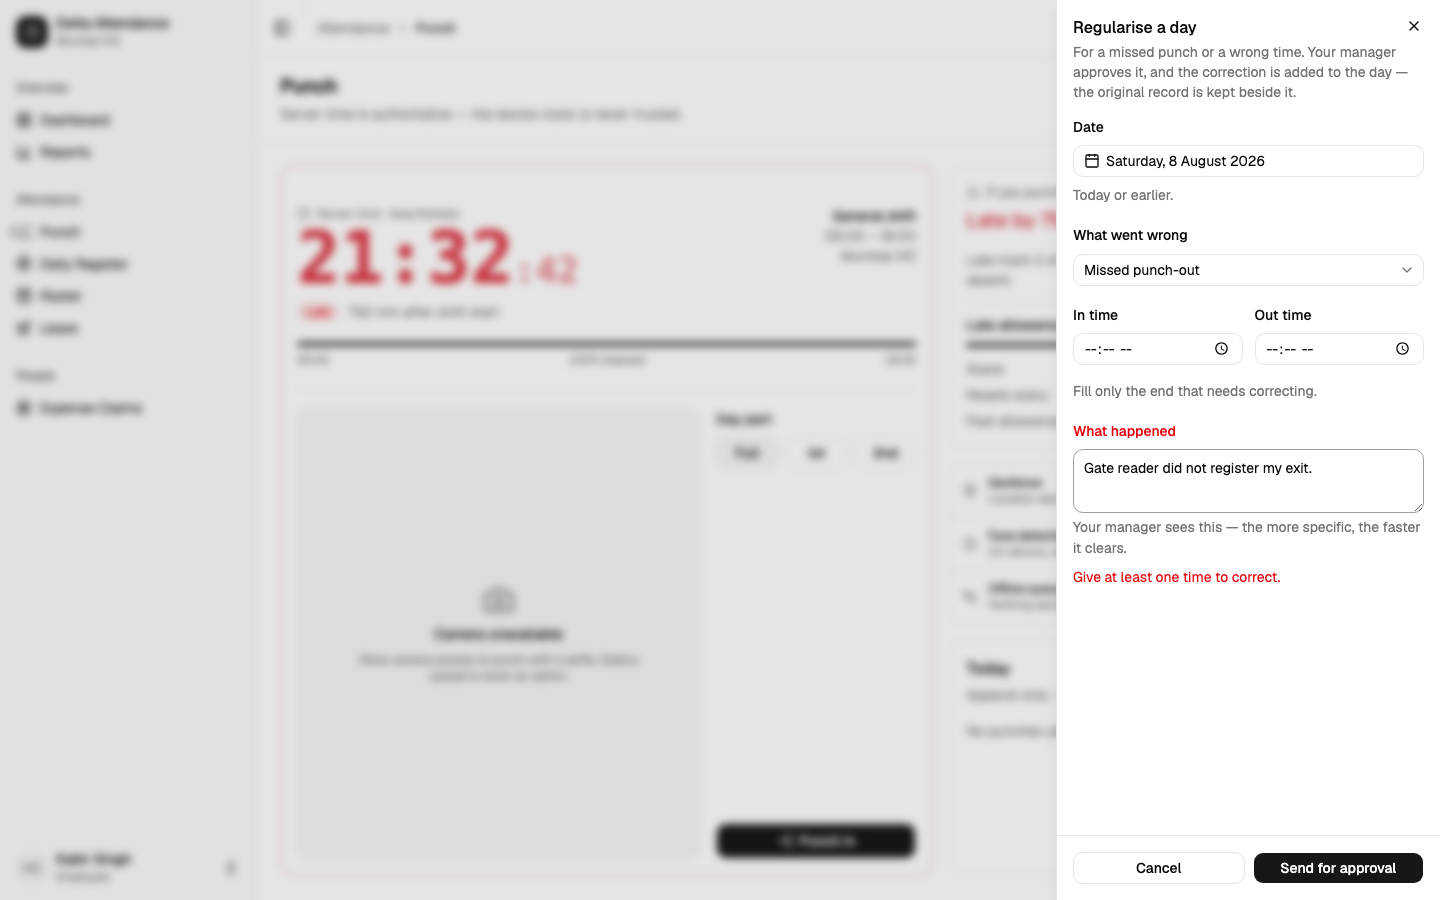
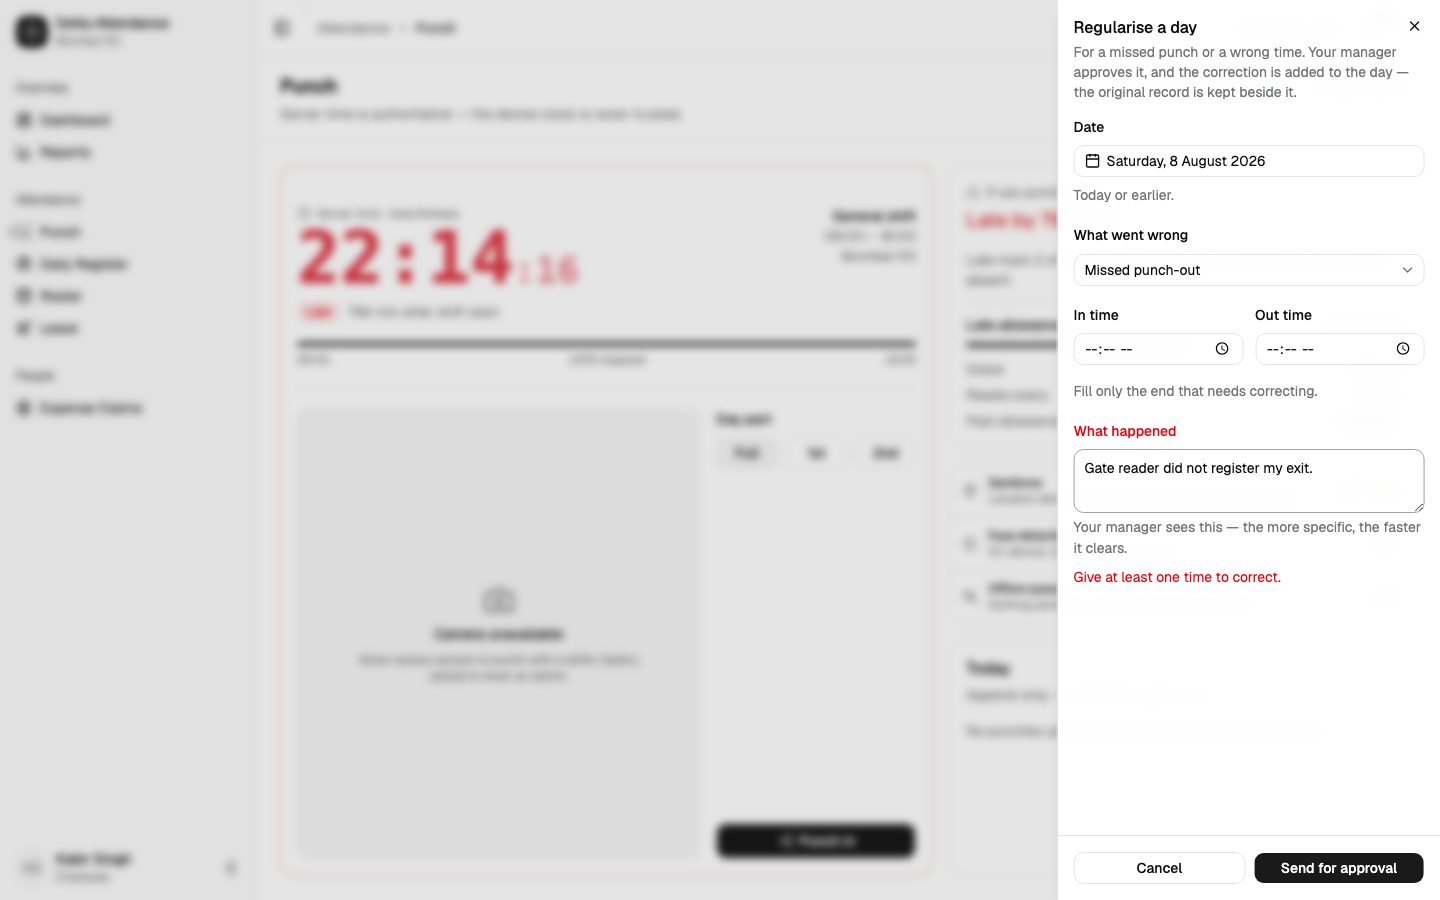
The command palette opens instead of crashing the app, and one predicate governs every nav surface

diff --git a/apps/web/src/routes/employee-detail.tsx b/apps/web/src/routes/employee-detail.tsx
@@ -241,7 +241,7 @@ function EditEmployeeSheet({
 export function EmployeeDetailPage() {
   const { id } = useParams()
   const navigate = useNavigate()
-  const { scopeFor } = useSession()
+  const { scopeFor, user } = useSession()
   const { employees: liveEmployees } = useEmployeesList()
   const employee =
     EMPLOYEES.find((entry) => entry.id === id) ??
@@ -249,6 +249,17 @@ export function EmployeeDetailPage() {
     null
   const liveRow = liveEmployees.find((entry) => entry.id === id && entry.shiftId) ?? null
   const canEdit = scopeFor("employee.manage") !== "NONE"
+  /**
+   * Anyone could open any colleague's profile by id — their email, manager,
+   * and three months of attendance analytics. The route was never guarded
+   * because it is reached by clicking a row on a list that *is* guarded, but
+   * the URL was always there to type.
+   *
+   * Viewing your own is always fine; viewing anyone else's needs the same
+   * capability the employee list does.
+   */
+  const isSelf = user?.employeeId === id
+  const mayView = isSelf || scopeFor("employee.manage") !== "NONE"
 
   // Seeded employees carry three months of synthetic history; a live-API
   // employee has only what has actually been punched, so charts wait.
@@ -257,6 +268,27 @@ export function EmployeeDetailPage() {
     () => (employee && hasHistory ? buildEmployeeAnalytics(employee) : null),
     [employee, hasHistory]
   )
+
+  if (!mayView) {
+    return (
+      <Page>
+        <PageHeader title="Not available to you" />
+        <PageBody>
+          <Empty className="border border-dashed">
+            <EmptyHeader>
+              <EmptyTitle>This is someone else's profile</EmptyTitle>
+              <EmptyDescription>
+                Viewing another employee's attendance needs the employee.manage permission.
+              </EmptyDescription>
+            </EmptyHeader>
+            <Button variant="outline" size="sm" onClick={() => navigate("/")}>
+              Back to your dashboard
+            </Button>
+          </Empty>
+        </PageBody>
+      </Page>
+    )
+  }
 
   if (!employee) {
     return (

diff --git a/apps/web/src/components/command-palette.tsx b/apps/web/src/components/command-palette.tsx
@@ -3,7 +3,7 @@ import { useNavigate } from "react-router"
 import { Moon, Sun } from "lucide-react"
 import { useTheme } from "next-themes"
 
-import { NAV_GROUPS } from "@/lib/nav"
+import { NAV_GROUPS, canSeeNavItem } from "@/lib/nav"
 import { useSession } from "@/lib/session"
 import {
   CommandDialog,
@@ -33,7 +33,7 @@ export function CommandPaletteProvider({ children }: { children: React.ReactNode
   const [open, setOpen] = React.useState(false)
   const navigate = useNavigate()
   const { setTheme } = useTheme()
-  const { can } = useSession()
+  const session = useSession()
 
   /**
    * ⌘K / Ctrl-K anywhere, plus "/" as a no-modifier fallback.
@@ -100,7 +100,7 @@ export function CommandPaletteProvider({ children }: { children: React.ReactNode
           <CommandEmpty>No match.</CommandEmpty>
           {NAV_GROUPS.map((group) => {
             const items = group.items.filter(
-              (item) => !item.permission || can(item.permission)
+              (item) => canSeeNavItem(session, item)
             )
             if (items.length === 0) return null
             return (

diff --git a/apps/web/src/components/app-sidebar.tsx b/apps/web/src/components/app-sidebar.tsx
@@ -2,7 +2,7 @@ import { ChevronsUpDown, Clock, LogOut } from "lucide-react"
 import { NavLink } from "react-router"
 
 import { useAppConfig } from "@/lib/app-config"
-import { NAV_GROUPS } from "@/lib/nav"
+import { NAV_GROUPS, canSeeNavItem } from "@/lib/nav"
 import { ROLE_LABEL, useSession } from "@/lib/session"
 import { Avatar, AvatarFallback, AvatarImage } from "@/components/ui/avatar"
 import {
@@ -68,11 +68,7 @@ export function AppSidebar() {
           // Entries the signed-in role has no grant for are not rendered. The
           // check is against the permission matrix, never a role name.
           const items = group.items.filter(
-            (item) =>
-              !item.permission ||
-              (item.requiresFullScope
-                ? session.scopeFor(item.permission) === "ALL"
-                : session.can(item.permission))
+            (item) => canSeeNavItem(session, item)
           )
           if (items.length === 0) return null
 

diff --git a/apps/web/src/components/bottom-nav.tsx b/apps/web/src/components/bottom-nav.tsx
@@ -3,7 +3,7 @@ import { Link, useLocation } from "react-router"
 import { LayoutGrid, Settings2 } from "lucide-react"
 
 import { cn } from "@/lib/utils"
-import { NAV_GROUPS, type NavItem } from "@/lib/nav"
+import { NAV_GROUPS, canSeeNavItem, type NavItem } from "@/lib/nav"
 import { useAppConfig } from "@/lib/app-config"
 import { useSession } from "@/lib/session"
 import { Button } from "@/components/ui/button"
@@ -31,13 +31,13 @@ import {
 export const DEFAULT_BOTTOM_NAV = ["/", "/punch", "/attendance", "/approvals"]
 
 export function usePermittedNavItems(): NavItem[] {
-  const { can } = useSession()
+  const session = useSession()
   return React.useMemo(
     () =>
       NAV_GROUPS.flatMap((group) => group.items).filter(
-        (item) => !item.permission || can(item.permission)
+        (item) => canSeeNavItem(session, item)
       ),
-    [can]
+    [session]
   )
 }
 

diff --git a/apps/web/src/components/ui/command.tsx b/apps/web/src/components/ui/command.tsx
@@ -57,7 +57,16 @@ function CommandDialog({
         )}
         showCloseButton={showCloseButton}
       >
-        {children}
+        {/*
+          The cmdk root. Its children — input, list, items — read the cmdk
+          store through context, so without it every one of them dereferences
+          an undefined store and the whole app unmounts with
+          "Cannot read properties of undefined (reading 'subscribe')".
+          The palette therefore crashed the app on open rather than opening.
+        */}
+        <Command className="[&_[cmdk-group-heading]]:text-muted-foreground [&_[cmdk-input-wrapper]_svg]:size-5 [&_[cmdk-item]]:px-2 [&_[cmdk-item]]:py-3">
+          {children}
+        </Command>
       </DialogContent>
     </Dialog>
   )

diff --git a/apps/web/src/lib/nav.ts b/apps/web/src/lib/nav.ts
@@ -279,3 +279,22 @@ export const NAV_GROUPS: NavGroup[] = [
     ],
   },
 ]
+
+
+/**
+ * Can this session see this nav entry?
+ *
+ * The sidebar, the phone bottom bar and the command palette each had their own
+ * copy of this test, and two of them checked only `can()` — so a screen marked
+ * `requiresFullScope` stayed reachable from ⌘K and from mobile after the
+ * sidebar had been fixed. One predicate, three callers.
+ */
+export function canSeeNavItem(
+  session: { can: (key: string) => boolean; scopeFor: (key: string) => string },
+  item: NavItem
+): boolean {
+  if (!item.permission) return true
+  return item.requiresFullScope
+    ? session.scopeFor(item.permission) === "ALL"
+    : session.can(item.permission)
+}

diff --git a/apps/web/src/components/app-layout.tsx b/apps/web/src/components/app-layout.tsx
@@ -33,6 +33,10 @@ function SearchTrigger() {
       variant="outline"
       size="sm"
       className="text-muted-foreground gap-2"
+      // The label is visually hidden below sm, leaving an icon-only button
+      // with no accessible name — unusable with a screen reader and
+      // unaddressable in a test.
+      aria-label="Search"
       onClick={() => setOpen(true)}
     >
       <Search />

diff --git a/DECISIONS.md b/DECISIONS.md
@@ -488,6 +488,20 @@ The half-day test asserting "overtime starts after the shortened expectation" en
 | O9 | An overtime claim covers **only the minutes not yet claimed** for that day | "One claim per day" stranded overtime genuinely earned: regularise a forgotten punch-out, the day grows by two hours, and those hours could never be claimed. A top-up claims the difference, so nothing is double-paid and nothing is lost. |
 | O10 | Payroll still pays `min(sum of approved, what the day computes)` | The claim path is now more permissive, so the cap matters more. Tested by inflating an approved figure directly: payroll pays what the day earned, not what the record says. |
 
+## 32. The command palette crashed the app (8 Aug 2026)
+
+Found while probing a P2 about nav filtering, not by the audit — no auditor and no sweep had ever opened it.
+
+`CommandDialog` rendered the cmdk children — input, list, items — **without the `<Command>` root they read their store from**. Every one of them dereferenced an undefined store, so opening the palette threw `Cannot read properties of undefined (reading 'subscribe')` and unmounted the entire application. It had never worked, on any commit; ⌘K, Ctrl-K, "/" and the Search button all did the same thing.
+
+| # | Decision | Why |
+|---|---|---|
+| Q1 | `CommandDialog` wraps children in `<Command>`, as the registry does | Restoring the root the primitives require. Verified per role: 28 entries for Admin, 27 for HR. |
+| Q2 | One `canSeeNavItem` predicate for the sidebar, phone bar and palette | Two of the three checked only `can()`, so a screen marked `requiresFullScope` stayed reachable from ⌘K and mobile after the sidebar was fixed. Confirmed by the counts above: Roles & Permissions is in Admin's palette and not HR's. |
+| Q3 | The sweep **opens the palette** on every viewport | Chrome that appears on every screen, yet a route sweep that never opens it can never notice it is broken. |
+| Q4 | The Search trigger carries an `aria-label` | Its text is hidden below `sm`, leaving an icon-only button with no accessible name — unusable with a screen reader, and the reason the sweep could not address it at 390px. |
+| Q5 | `/employees/:id` is guarded, self-view always allowed | Anyone could open a colleague's profile by id and read their email, manager and three months of attendance analytics. It was never guarded because it is reached from a list that is — but the URL was always there to type. |
+
 ## 4. Open items
 
 - **Statutory payroll** (PF/ESI/PT/TDS) still deferred per the 4 Aug decision. The payslip prints gross = net and says so explicitly rather than inventing deduction lines.
